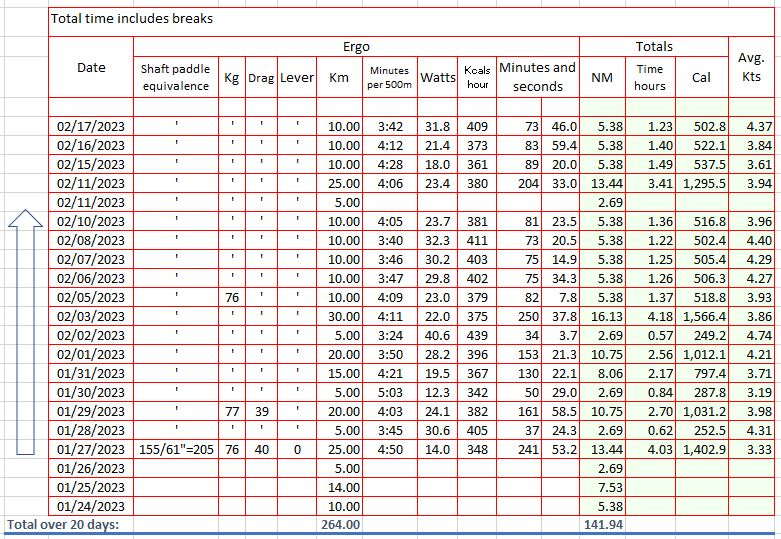
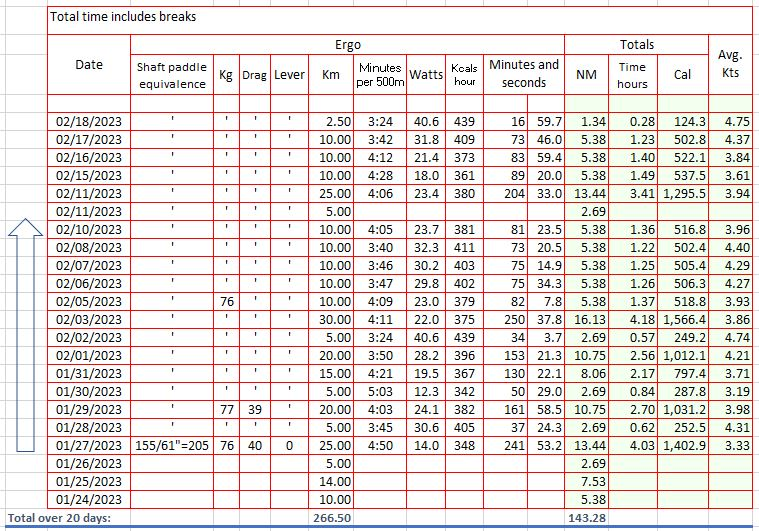
updates

diff --git a/dry-run/log/index.html b/dry-run/log/index.html
@@ -214,11 +214,11 @@ $(document).ready(function(){
 <p>These runs are in a perfect environment on an ergometer, with no boat weight and actual conditions.</p>
 </blockquote>
 <blockquote>
-<p>February 17, 2023</p>
+<p>February 18, 2023</p>
 </blockquote>
-<p><img src="/img/feb17.JPG" alt="February 17">
+<p><img src="/img/feb18.JPG" alt="February 18">
 <div style="text-align: center">
-142 nautical miles, or 264 Km
+143.2 nautical miles, or 266.5 Km
 </div>
 </p>
 <p><img src="/img/Stats.JPG" alt="Stats">
